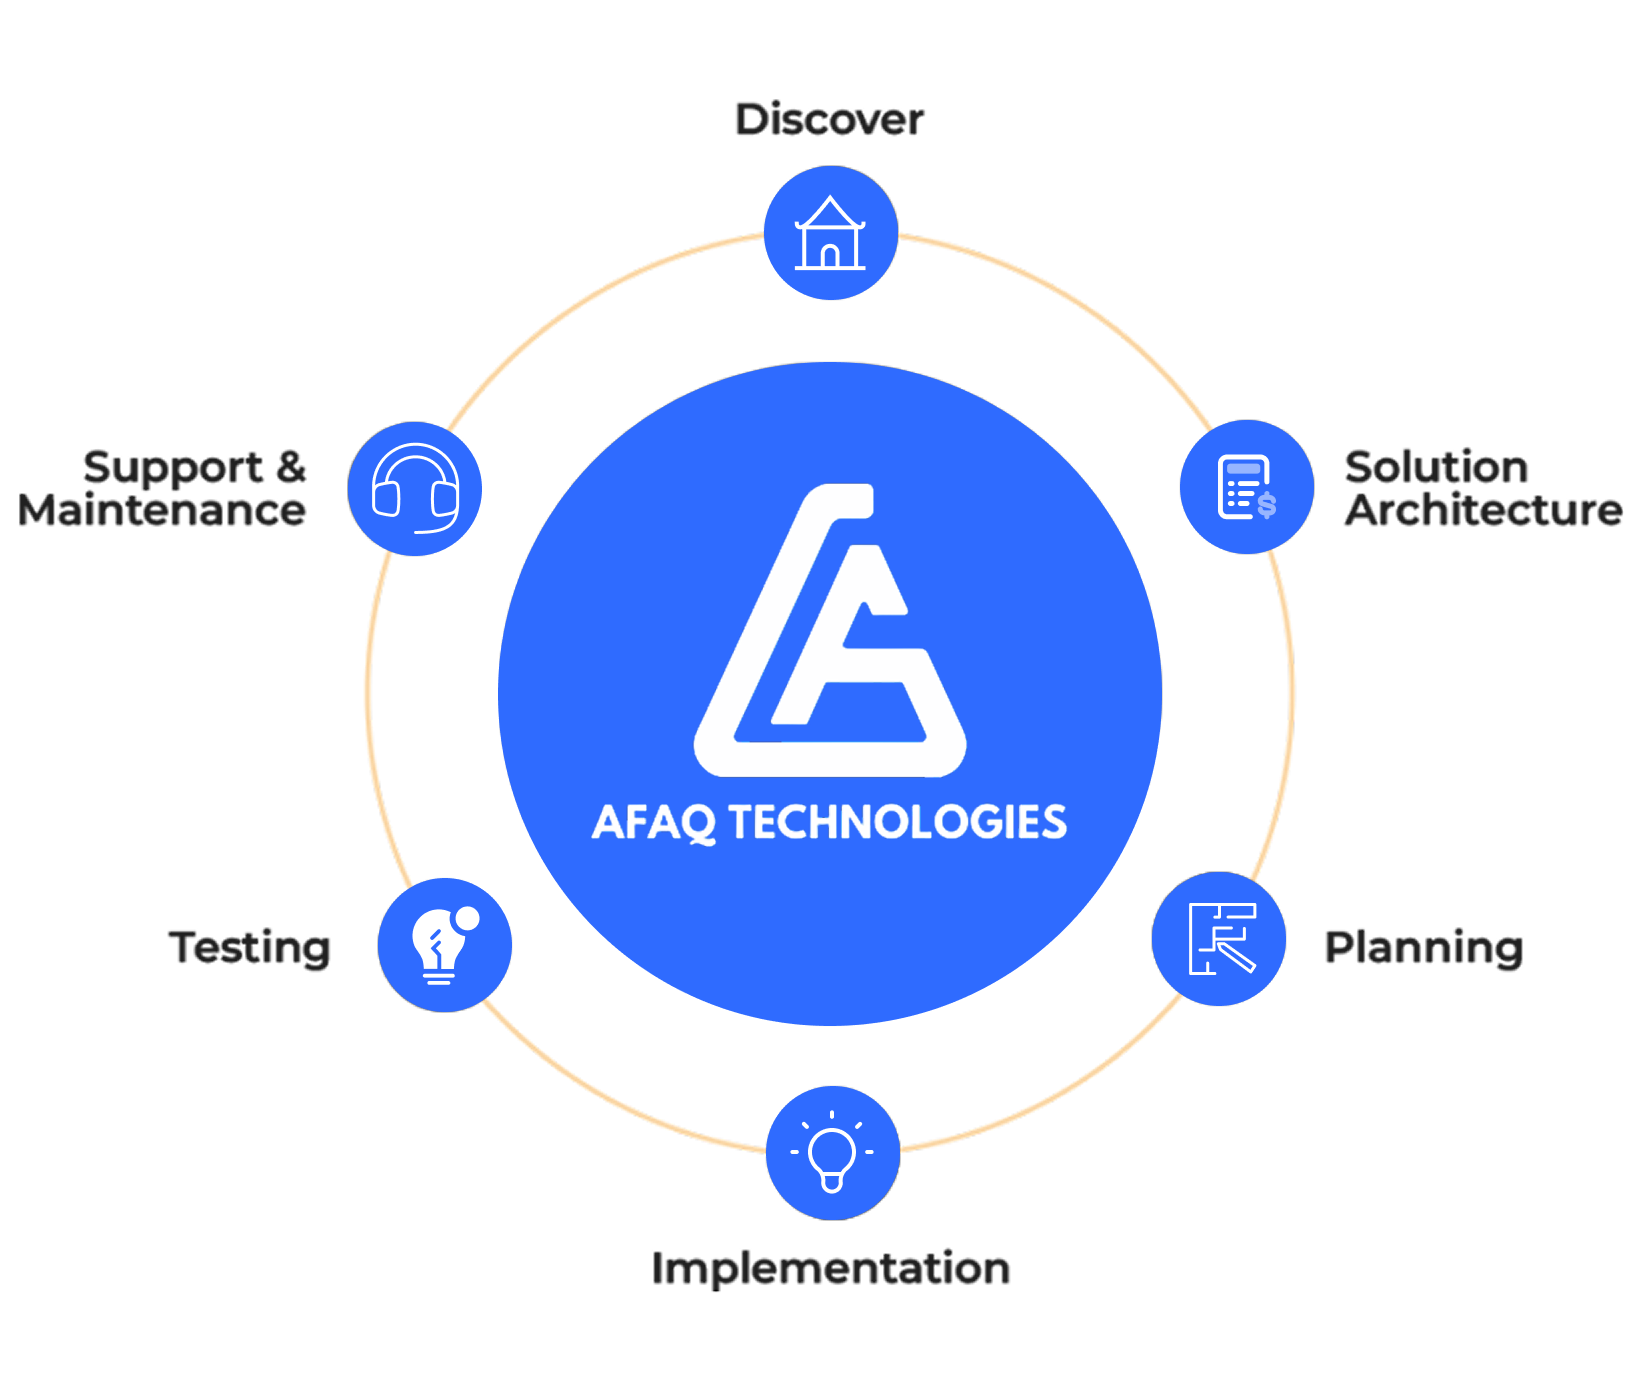
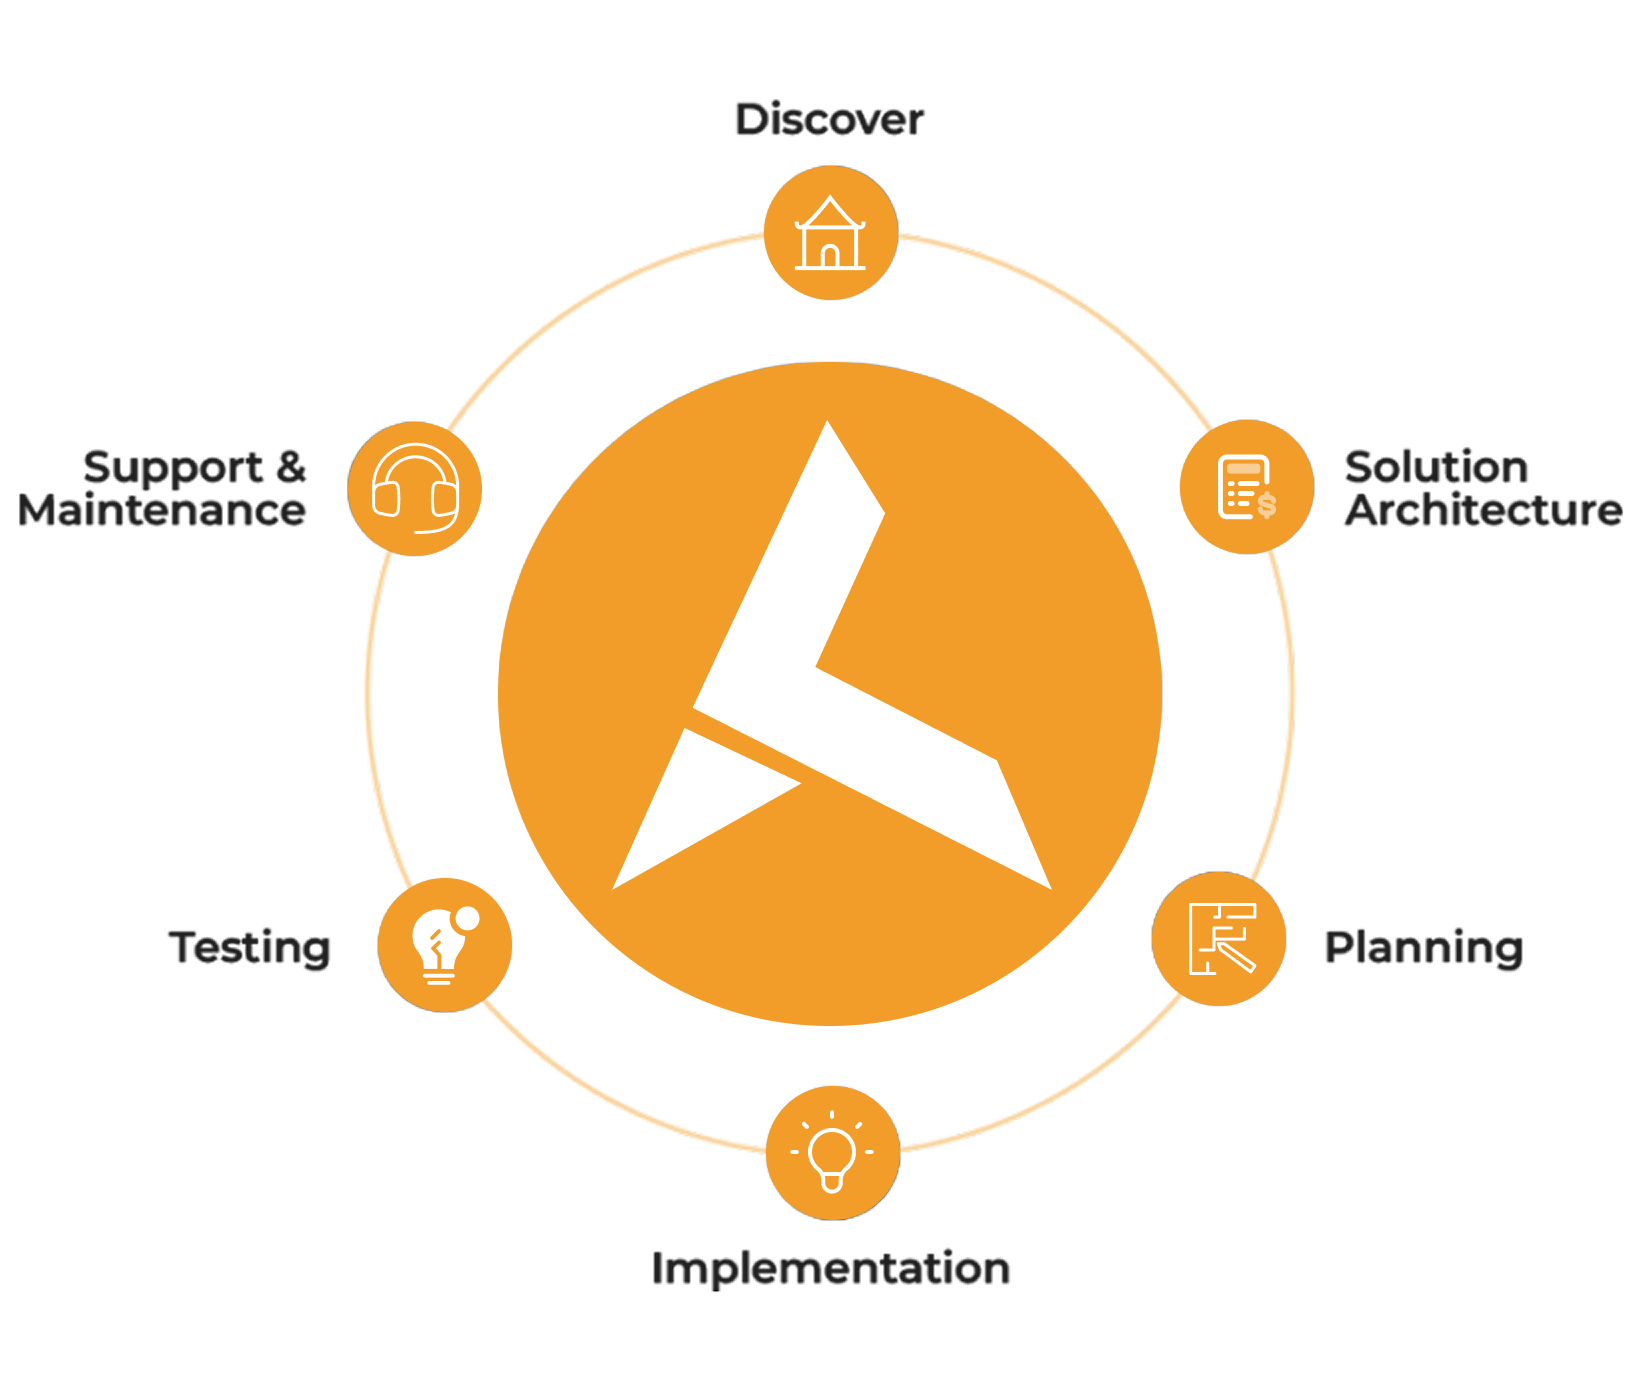
fyu

diff --git a/src/components/sections/Hero.jsx b/src/components/sections/Hero.jsx
@@ -6,55 +6,52 @@ import Link from "next/link";
 
 export default function Hero() {
   return (
-    <section className="pt-24">
-      <div className="relative overflow-hidden">
-        {/* ✅ BACKGROUND IMAGE CONTAINER */}
-        <div
-          className="h-[70vh] flex items-start bg-cover bg-center bg-no-repeat"
-          style={{
-            backgroundImage: "url('/images/hero.png')",
-          }}
-        >
-          {/* ✅ LEFT-ALIGNED CONTAINER (UNCHANGED) */}
-          <div className="relative z-10 w-full pt-12">
-            <div className="max-w-7xl px-4 sm:px-6 lg:px-28">
-              <div className="max-w-3xl text-left ">
-                <h1 className="text-4xl md:text-6xl font-extrabold leading-[1.05] tracking-tight text-foreground">
-                  Your <span className="text-primary">Afaq Technologies</span> With
-                  Full
-                 
-                  Cycle{" "}
-                   <br />
-                  <span className="text-primary">Software Development</span>
-                </h1>
+    <section className="pt-16">
+     <div className="relative overflow-hidden">
+  {/* BACKGROUND IMAGE CONTAINER */}
+  <div
+    className="relative h-[70vh] flex items-start bg-cover bg-center bg-no-repeat"
+    style={{ backgroundImage: "url('/images/1.jpg')" }}
+  >
+    {/* 🔥 DARK OVERLAY */}
+    <div className="absolute inset-0 bg-black/20" />
 
-                <p className="mt-5 text-base md:text-lg text-[var(--text-muted)] leading-relaxed">
-                  Unlock growth with custom development solutions for your
-                  business, powered by AI & cloud innovation.
-                </p>
+    {/* CONTENT */}
+    <div className="relative z-10 w-full pt-28">
+      <div className="max-w-7xl px-4 sm:px-6 lg:px-28">
+        <div className="max-w-3xl text-left">
+          <h1 className="text-4xl md:text-6xl font-extrabold leading-[1.05] tracking-tight text-white">
+            Your <span className="text-primary">Afaq Technologies</span> With Full
+            Cycle <br />
+            <span className="text-primary">Software Development</span>
+          </h1>
 
-                <div className="mt-8 flex items-center gap-4">
-                  <Link
-                    href="/contact-us"
-                    className="inline-flex items-center gap-2 rounded-full px-6 py-3 text-sm font-semibold
-                             bg-primary text-primary-foreground hover:opacity-90 transition"
-                  >
-                    Contact Us <span aria-hidden="true">›</span>
-                  </Link>
+          <p className="mt-5 text-base md:text-lg text-white/80 leading-relaxed">
+            Unlock growth with custom development solutions for your business,
+            powered by AI & cloud innovation.
+          </p>
 
-                 
-                </div>
-              </div>
-
-              <div className="hidden lg:block h-[420px]" />
-            </div>
+          <div className="mt-8 flex items-center gap-4">
+            <Link
+              href="/contact-us"
+              className="inline-flex items-center gap-2 rounded-full px-6 py-3 text-sm font-semibold
+                         bg-primary text-primary-foreground hover:opacity-90 transition"
+            >
+              Contact Us <span aria-hidden="true">›</span>
+            </Link>
           </div>
-
-          {/* fades (UNCHANGED) */}
-          <div className="pointer-events-none absolute inset-x-0 top-0 h-24 bg-gradient-to-b from-white to-transparent" />
-          <div className="pointer-events-none absolute inset-x-0 bottom-0 h-28 bg-gradient-to-t from-white to-transparent" />
         </div>
+
+        <div className="hidden lg:block h-[420px]" />
       </div>
+    </div>
+
+    {/* FADE EDGES */}
+    <div className="pointer-events-none absolute inset-x-0 top-0 h-24 bg-gradient-to-b from-black/70 to-transparent" />
+    <div className="pointer-events-none absolute inset-x-0 bottom-0 h-28 bg-gradient-to-t from-black/70 to-transparent" />
+  </div>
+</div>
+
     </section>
   );
 }

diff --git a/src/components/serviceSection/DetailServicesPage.jsx b/src/components/serviceSection/DetailServicesPage.jsx
@@ -3,35 +3,38 @@ import React from "react";
 
 const DetailServicesPage = ({ data }) => {
   return (
-    <section className="pt-24">
+    <section className="pt-16">
       <div className="relative overflow-hidden">
         {/* ✅ BACKGROUND IMAGE CONTAINER */}
         <div
-          className="h-[70vh] flex items-start bg-cover bg-center bg-no-repeat"
+          className="relative h-[70vh] flex items-start bg-cover bg-center bg-no-repeat"
           style={{
-            backgroundImage: "url('/images/hero.png')",
+            backgroundImage: "url('/images/tech-service.jpg')",
           }}
         >
+          {/* ✅ DARK OVERLAY (same as previous) */}
+          <div className="absolute inset-0 bg-black/60" />
+
           {/* ✅ CENTER-ALIGNED CONTAINER */}
           <div className="relative z-10 w-full pt-12 flex items-center justify-center">
             <div className="max-w-7xl w-full px-4 sm:px-6 lg:px-28">
               <div className="mx-auto max-w-3xl text-center">
-                <h1 className="text-4xl md:text-6xl font-extrabold leading-[1.05] tracking-tight text-foreground">
-                  <span className="text-foreground">{data.titleBlack} </span>
+                <h1 className="text-4xl md:text-6xl font-extrabold leading-[1.05] tracking-tight text-white">
+                  <span className="text-white">{data.titleBlack} </span>
                   <span className="text-primary">{data.titleOrange}</span>{" "}
-                  <span className="text-foreground">{data.titleBlack2}</span>
+                  <span className="text-white">{data.titleBlack2}</span>
                   <br />
                   <span className="text-primary">{data.titleOrange2}</span>
                   {data.byText ? (
                     <>
                       {" "}
-                      <span className="text-foreground">{data.byText} </span>
+                      <span className="text-white">{data.byText} </span>
                       <span className="text-primary">{data.brand}</span>
                     </>
                   ) : null}
                 </h1>
 
-                <p className="mt-5 text-base md:text-lg text-[var(--text-muted)] leading-relaxed">
+                <p className="mt-5 text-base md:text-lg text-white/80 leading-relaxed">
                   {data.desc}
                 </p>
 
@@ -50,9 +53,9 @@ const DetailServicesPage = ({ data }) => {
             </div>
           </div>
 
-          {/* fades (UNCHANGED) */}
-          <div className="pointer-events-none absolute inset-x-0 top-0 h-24 bg-gradient-to-b from-white to-transparent" />
-          <div className="pointer-events-none absolute inset-x-0 bottom-0 h-28 bg-gradient-to-t from-white to-transparent" />
+          {/* ✅ DARK fades (same as previous) */}
+          <div className="pointer-events-none absolute inset-x-0 top-0 h-24 bg-gradient-to-b from-black/70 to-transparent" />
+          <div className="pointer-events-none absolute inset-x-0 bottom-0 h-28 bg-gradient-to-t from-black/70 to-transparent" />
         </div>
       </div>
     </section>

diff --git a/src/components/serviceSection/ServiceHeroSection.jsx b/src/components/serviceSection/ServiceHeroSection.jsx
@@ -4,28 +4,30 @@ import Link from "next/link";
 
 export default function ServiceHeroSection() {
   return (
-    <section className="pt-24">
+    <section className="pt-16">
       <div className="relative overflow-hidden">
-        {/* ✅ BACKGROUND IMAGE CONTAINER */}
+        {/* BACKGROUND IMAGE CONTAINER */}
         <div
-          className="h-[70vh] flex items-start bg-cover bg-center bg-no-repeat"
+          className="relative h-[70vh] flex items-start bg-cover bg-center bg-no-repeat"
           style={{
-            backgroundImage: "url('/images/hero.png')",
+            backgroundImage: "url('/images/tech-service.jpg')",
           }}
         >
-          {/* ✅ CENTER-ALIGNED CONTAINER */}
+          {/* 🔥 DARK OVERLAY (SAME AS PREVIOUS HERO) */}
+          <div className="absolute inset-0 bg-black/60" />
+
+          {/* CONTENT */}
           <div className="relative z-10 w-full pt-12 flex items-center justify-center">
             <div className="max-w-7xl w-full px-4 sm:px-6 lg:px-28">
               <div className="mx-auto max-w-3xl text-center">
-                <h1 className="text-4xl md:text-6xl font-extrabold leading-[1.05] tracking-tight text-foreground">
-                  <span className="text-foreground">Afaq </span>
-                  <span className="text-primary">Technologies</span>{" "}
-              
+                <h1 className="text-4xl md:text-6xl font-extrabold leading-[1.05] tracking-tight text-white">
+                  <span className="text-white">Afaq </span>
+                  <span className="text-primary">Technologies</span>
                   <br />
-                 <span className="text-foreground">Services</span>
+                  <span className="text-white">Services</span>
                 </h1>
 
-                <p className="mt-5 text-base md:text-lg text-[var(--text-muted)] leading-relaxed">
+                <p className="mt-5 text-base md:text-lg text-white/80 leading-relaxed">
                   Crafting next-gen solutions that solve challenges, scale faster,
                   and give your business an edge.
                 </p>
@@ -45,9 +47,9 @@ export default function ServiceHeroSection() {
             </div>
           </div>
 
-          {/* fades (UNCHANGED) */}
-          <div className="pointer-events-none absolute inset-x-0 top-0 h-24 bg-gradient-to-b from-white to-transparent" />
-          <div className="pointer-events-none absolute inset-x-0 bottom-0 h-28 bg-gradient-to-t from-white to-transparent" />
+          {/* 🔥 DARK FADE EDGES (MATCH PREVIOUS) */}
+          <div className="pointer-events-none absolute inset-x-0 top-0 h-24 bg-gradient-to-b from-black/70 to-transparent" />
+          <div className="pointer-events-none absolute inset-x-0 bottom-0 h-28 bg-gradient-to-t from-black/70 to-transparent" />
         </div>
       </div>
     </section>

diff --git a/src/components/sections/Industries.jsx b/src/components/sections/Industries.jsx
@@ -3,14 +3,14 @@
 import Image from "next/image";
 
 const items = [
-  { title: "Ecommerce", icon: "/icons/ecom.svg" },
-  { title: "Real Estate", icon: "/icons/estate.svg" },
-  { title: "Hospitality & tourism", icon: "/icons/hos.svg" },
+  { title: "Ecommerce", icon: "/icons/ecom.png" },
+  { title: "Real Estate", icon: "/icons/estate.png" },
+  { title: "Hospitality & tourism", icon: "/icons/hos.png" },
  
-  { title: "Education & E-learning", icon: "/icons/edu.svg" },
-  { title: "Finance & FinTech", icon: "/icons/fin.svg" },
-  { title: "Healthcare", icon: "/icons/health.svg" },
-  { title: "Startups & Scaleups", icon: "/icons/incre.svg" },
+  { title: "Education & E-learning", icon: "/icons/edu.png" },
+  { title: "Finance & FinTech", icon: "/icons/fin.png" },
+  { title: "Healthcare", icon: "/icons/hea.png" },
+  { title: "Startups & Scaleups", icon: "/icons/start.png" },
 ];
 
 export default function Industries() {

diff --git a/src/components/Layout/Navbar.jsx b/src/components/Layout/Navbar.jsx
@@ -30,12 +30,13 @@ export default function Navbar() {
 
   return (
     <header className="fixed top-0 left-0 right-0 z-50">
-      <div className="lg:bg-white/70 backdrop-blur-md border-b border-border">
+     <div className="lg:bg-white/40 backdrop-blur-xl border-b border-white/40">
+
         <div className="w-full px-6 lg:px-28">
           <div className="h-16 flex items-center justify-between">
             {/* Logo */}
             <Link href="/" className="flex items-center gap-3">
-              <div className="h-14 w-20 flex items-center justify-center overflow-hidden">
+              <div className="h-14 w-14 flex items-center justify-center overflow-hidden">
                 <Image
                   src="/images/logo.png"
                   alt="Afaq Technologies Logo"

diff --git a/src/app/globals.css b/src/app/globals.css
@@ -25,7 +25,7 @@ body {
 
 @theme {
   /* Tailwind utilities you use directly */
-  --color-primary: #2f6bff;              /* text-primary, bg-primary */
+  --color-primary: #f29d29;              /* text-primary, bg-primary */
   --color-primary-foreground: #ffffff;   /* text-primary-foreground */
 
   --color-foreground: #0b1220;           /* text-foreground */
